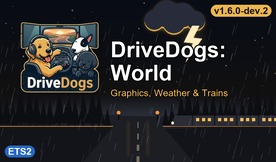
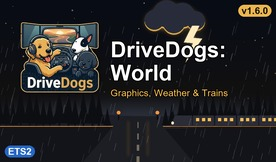
release world 1.6.0 after the playtest: dbm road textures built in, checked on ets2 1.62.3.3
The maintainer compared 1.6.0-dev.2 with 1.5.3 in game and kept DBM Road Textures: scanned road colours over
Asphalt_improved's, whose crack relief and the wet-road blend stay; loading was no slower (33-34 s vs 36 s) and the
log shows no new line from World. ADR-0002 gains decision 15 and DBM Roads in the load order. The 1.62.3.3 patch
adds the Iceland and bus DLC archives; with the base re-extracted every generator is up to date, the textures those
DLCs name that World excludes are supplied by a higher source, and check --strict passes.

Changed region(s): [[0.7536, 0.0, 0.9855, 0.1235]]

diff --git a/README.md b/README.md
@@ -4,11 +4,12 @@ ETS2 mod for the world around the road, built as a local **megapack** with the `
 `scs-mod-developer` agent profile. This repo holds only configuration and tools. The mod is built from the
 extracted base game, subscribed Workshop items and one local archive. It is never redistributed.
 
-Current content (v1.5.3, ETS2 1.62.1.0, checked on 1.62.2.1):
+Current content (v1.6.0, ETS2 1.62.1.0, checked on 1.62.3.3):
 
 - **Graphics** from Juninho944 (Weather_3.9, Asphalt_improved, grass_4.0_lite, tree_improved_4k), DIOX (Beautiful
-  Nature), Darkcaptain (Realistic Rain) and DBM (Vegetation, Terrain Textures, Guard Rails 4K, World & Buildings HD;
-  above Juninho944's and DIOX's where they overlap), in the maintainer's load order.
+  Nature), Darkcaptain (Realistic Rain) and DBM (Vegetation, Terrain Textures, Road Textures, Guard Rails 4K, World &
+  Buildings HD; above Juninho944's and DIOX's where they overlap), in the maintainer's load order. DBM's scanned road
+  colours sit on Asphalt_improved's crack and joint relief.
 - **Water** from DBM Water (lake waves, foam, shores, beaches) and Kass (rivers, distant water); **lightning and
   thunder** from Kass (Realistic Rain & Water & Thunder Sounds).
 - **Wet roads**: Grimes' Realistic Rain Reflections wheel tracks blended into the winning road normal maps and
@@ -39,12 +40,12 @@ trains), [ADR-0002](docs/adr/ADR-0002-world-graphics.md) (graphics, weather, bra
 
 ## Install
 
-1. Copy `output/local/drivedog_world_v<version>.scs` (one archive, ~12 GB) to `Documents/Euro Truck Simulator 2/mod/`.
+1. Copy `output/local/drivedog_world_v<version>.scs` (one archive, ~16 GB) to `Documents/Euro Truck Simulator 2/mod/`.
 2. In the mod manager, place it **above** Sound Fixes Pack (optional) and any other train sound or length mod.
 3. Disable the mods it contains (Workshop subscriptions included): Weather_3.9, Asphalt_improved, grass_4.0_lite,
    tree_improved_4k, Beautiful Nature, Beautiful Water, Realistic Rain, Realistic Rain Reflections, Realistic Rain &
    Water & Thunder Sounds, DBM Road Signs & Markings 4K, DBM Vegetation, DBM Terrain Textures, DBM Guard Rails 4K,
-   DBM World & Buildings HD, DBM Water, Real companies & gas stations, Busy Bus Stations, Realistic Train Lengths,
+   DBM World & Buildings HD, DBM Water, DBM Road Textures, Real companies & gas stations, Busy Bus Stations, Realistic Train Lengths,
    Real Train Sounds ETS2, Different lenses of traffic lights (2931835197), and any day/night or date mod (e.g.
    Workshop 1061306287).
 4. Remove the DriveDogs Better Flares Traffic Lights add-on (`BetterFlaresAddOns/TrafficLights`, deprecated): World
@@ -105,7 +106,7 @@ patched source models in `overrides/` are git-ignored: `rain_reflections.py`, `b
 | Path | Purpose |
 |---|---|
 | `megapack.yaml` | package identity, base game version, base-edit files, `references:` (Realistic Train Lengths, Busy Bus Stations), one-archive cap |
-| `sources.yaml` | the 16 merged sources: layers, overrides, excludes (DBM's sign atlas/frame definitions must match the textures that win, see its comment) |
+| `sources.yaml` | the 17 merged sources: layers, overrides, excludes (DBM's sign atlas/frame definitions must match the textures that win, see its comment) |
 | `resolutions.yaml` | per-path collision decisions (partly written by `rain_reflections.py` and `model_variants.py`) |
 | `world/*.yaml` | base-game edits: generated by the tools, except `environment.yaml` |
 | `world/units/` | new game definition files (`harvest_brands.py`) |

diff --git a/docs/adr/ADR-0002-world-graphics.md b/docs/adr/ADR-0002-world-graphics.md
@@ -4,6 +4,7 @@
 - Date: 2026-10-01
 - Amended: 2026-10-31 (1.4.1: wet roads no longer a mirror; decisions 4, 6 and 8)
 - Amended: 2026-10-31 (1.4.2: the rough wet look on every asphalt, legacy roads included; decision 6)
+- Amended: 2026-11-14 (1.6.0: DBM Road Textures above Asphalt_improved's road colours; decisions 2 and 15)
 
 ## Context
 
@@ -26,8 +27,8 @@
    carried as `base_edits` on the current base game, generated by a tool with `--check`; World's own files are in
    `overrides/`. Local build only; every author is credited in the description.
 2. **Load order (low -> high, higher wins):** grass_4.0 < Beautiful Nature < Asphalt_improved < DBM < tree_improved <
-   DBM Vegetation < DBM Terrain < DBM Guard Rails < DBM Buildings < Weather_3.9 < Realistic Rain < Kass < DBM Water <
-   Real companies. DIOX sits below Juninho944's set on purpose. Every collision
+   DBM Vegetation < DBM Terrain < DBM Guard Rails < DBM Buildings < DBM Roads < Weather_3.9 < Realistic Rain < Kass <
+   DBM Water < Real companies. DIOX sits below Juninho944's set on purpose. Every collision
    is declared by `overrides:`, resolved in `resolutions.yaml` (gas price stand to Real companies, rain streaks and
    puddle normal maps to `overrides/`), or excluded at the losing source.
 3. **Game settings as edits** (`world/graphics.yaml`, `world/brands.yaml`): grass density and 155 terrain tints,
@@ -124,7 +125,17 @@
     panorama and Balkan water plants. Its `material/terrain/water` and `umatlib/aliased` materials and 18 textures
     are named by nothing in 1.61 (1.61's terrain names `umatlib/legacy` water only) and are excluded. Road
     reflections do not read water.
-15. **Not merged:** Sound Fixes Pack (its value is the author's per-version rework of ~480 definition files) and
+15. **DBM Road Textures above Asphalt_improved's road colours and one DBM Signs curb decal** (amended 2026-11-14,
+    World 1.6.0; maintainer: keep, after an in-game comparison of 1.6.0-dev.2 with 1.5.3): textures only, 510 scanned
+    (ambientCG, CC0) colour textures up to 8192 px for every road-surface template and 56 legacy roads, plus
+    sidewalks, curbs, drains and tiles. It wins the 362 files it shares with Asphalt_improved. It ships no normal map
+    for the road surfaces, so Asphalt_improved's crack and joint relief and World's rain-reflection blend (decision 6)
+    stay on them; only `un/tiles_new_01_tile_nrm` takes DBM's flatter tile map as its blend input. Asphalt_improved
+    keeps `asphalt_ground_curb` (DBM's version drops the shoulder and gravel edge the blended normal map still has).
+    10 of its textures are named by no 1.62 material (2 Iceland, not in 1.62) and are excluded. Cost: the archive grows
+    from ~12.2 to ~16.2 GB; the playtest showed no longer loading (33-34 s vs 1.5.3's 36 s from mod activation to the
+    truck) and no new log line.
+16. **Not merged:** Sound Fixes Pack (its value is the author's per-version rework of ~480 definition files) and
     Better Flares (City Lights ships ~780 whole street-lamp models that cannot be edits); both stay separate mods.
 
 ## Consequences
